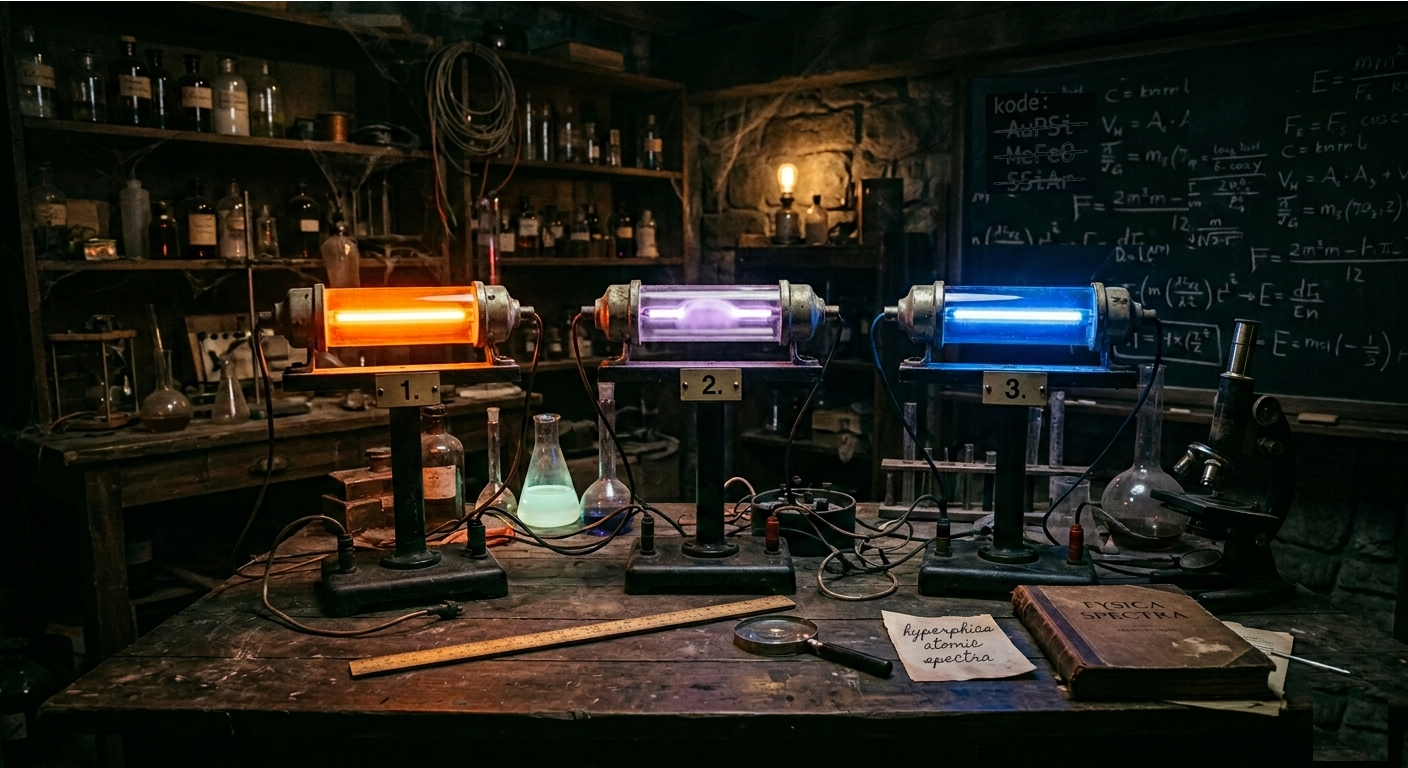
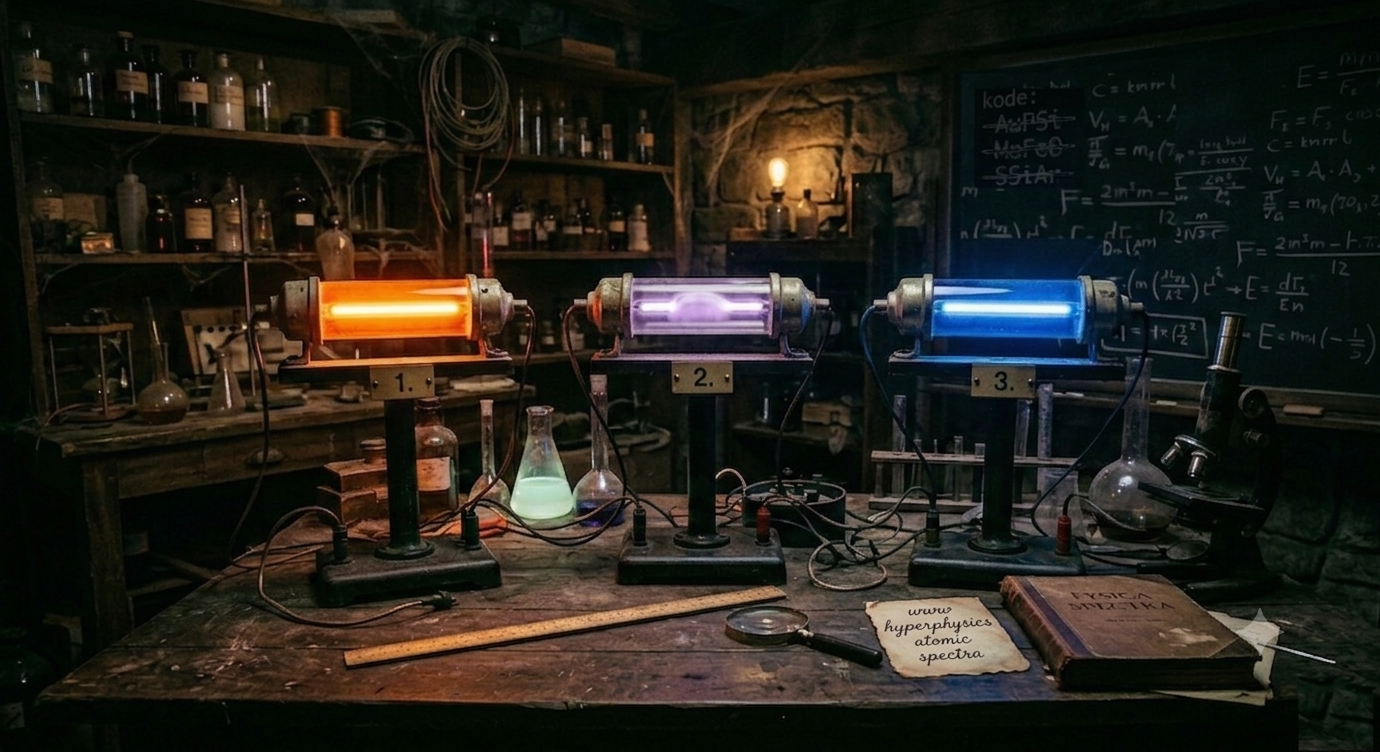
nyt billede

diff --git a/README.md b/README.md
@@ -1,5 +1,6 @@
 # fysik
 Link til kapitler
+
 * [lyd.](lyd.md)
 * [energi.](energi.md)
 * [lys.](lys.md)
@@ -7,6 +8,7 @@ Link til kapitler
 * [escaperoom.](escaperoom/readme.md)
 
 Vist som hjemmeside
+
 * [lyd.](https://mpsteenstrup.github.io/fysik/lyd.html)
 * [energi.](https://mpsteenstrup.github.io/fysik/energi.html)
 * [lys.](https://mpsteenstrup.github.io/fysik/lys.html)
@@ -15,4 +17,6 @@ Vist som hjemmeside
 
 
 ## DIV
-Animationer med manim, både fysik og matematik [https://chrishsmol.github.io/UndervisningsAnimationer/](https://chrishsmol.github.io/UndervisningsAnimationer/)
+
+* Animationer med manim, både fysik og matematik [https://chrishsmol.github.io/UndervisningsAnimationer/](https://chrishsmol.github.io/UndervisningsAnimationer/)
+* Få grafer om til punkter. [https://plotdigitizer.com/app](https://plotdigitizer.com/app)
